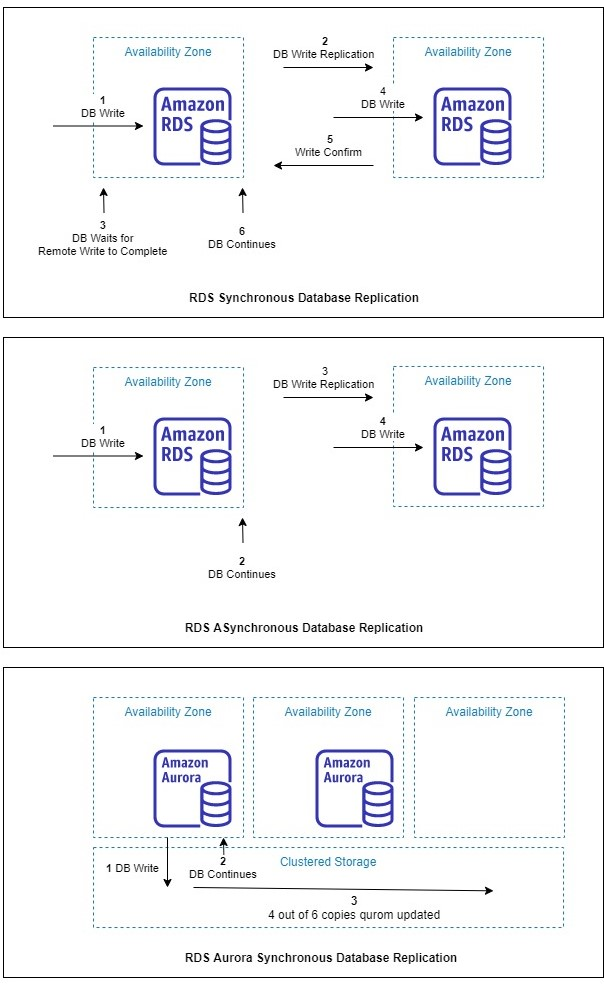
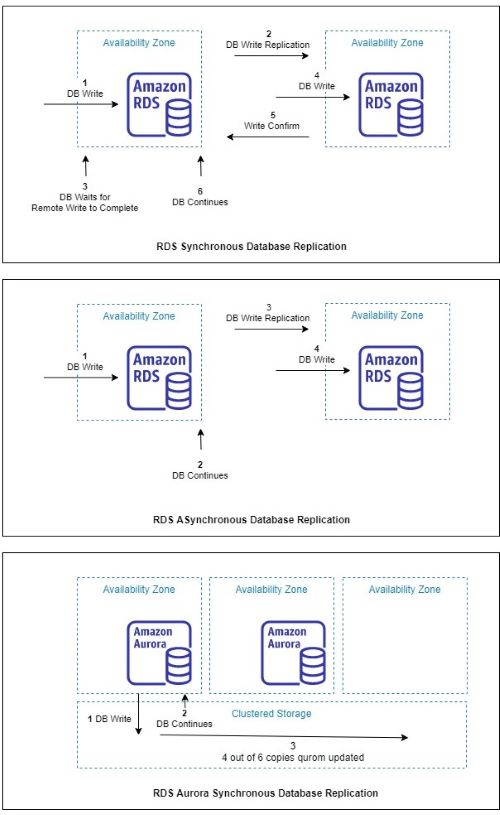
amended images spacing

diff --git a/posts/zero-dataloss-dr-using-rds/index.md b/posts/zero-dataloss-dr-using-rds/index.md
@@ -16,12 +16,12 @@ date: 2023-07-15
 |---|
 
 ## Introduction
-This article will look at how Amazon RDS databases support recovery from failure or disaster. We will cover the internal database mechanisms that facilitate database recovery from an AWS service failure as well as the AWS offerings that facilitate complete RDS database Disaster Recovery. Finally we will bring all of this information together to form an idea of what is possible utilising Amazon RDS to architect for a Zero Data loss solution.
+This article will look at how Amazon RDS databases support recovery from failure or disaster. We will cover the internal database mechanisms that facilitate database recovery from an AWS service failure as well as the AWS offerings that facilitate complete RDS database disaster recovery. Finally we will bring all of this information together to form an idea of what is possible utilising Amazon RDS to architect for a Zero Data loss solution.
 
 ## What does Zero Data Loss Disaster Recovery (ZDLDR) actually mean and why would it be needed?
 Disaster Recovery is the act of recovering an impaired service after a failure event that effects the primary Availability Zone(s), Data Centre(s) or Region(s). That event could range from natural disasters, power cuts, and network outages to political activism stopping or impacting the data centres where servers and services are physically run from.
 
-Recovery from failure and Testing of recovery procedures also forms part of the AWS Well-Architected Framework falling under the 'Reliability' Pillar. This is a core component of any AWS architected design so should be well understood.
+Recovery from failure and Testing of recovery procedures also forms part of the [AWS Well-Architected Framework](https://docs.aws.amazon.com/wellarchitected/latest/reliability-pillar/plan-for-disaster-recovery-dr.html) falling under the 'Reliability' Pillar. This is a core component of any AWS architected design so should be well understood.
 
  > Your resiliency strategy should also include Disaster Recovery (DR) objectives based on strategies to recover your workload in case of a disaster event.
 
@@ -29,7 +29,7 @@ Recovery from failure and Testing of recovery procedures also forms part of the 
 
  Recovery from a Disaster, with Zero Data Loss or ZDLDR means that once the database is back in service it will carry on from the point of failure and hold all transactional history up until the point of failure. For instance if we lost an Availability Zone at 9:00am UTC, For a ZDLDR Solution we would want a DR Solution that could reinstate that database service as if it were 09:00am UTC again anything less could imply loss of new or changed data.
 
- A database with missing or out of date data may simply cause an application to cease to function as it should, report incorrect or missing data and could require complex manual intervention to rectify. The issue could further be impacted if the system continued to operate with the missing or incorrect data which then causes additional logical cascading data corruptions. 
+ A database with missing or out of date data may cause an application to cease to function as it should, report incorrect or missing data and could require complex manual intervention to rectify. The issue could further be impacted if the system continued to operate with the missing or incorrect data which then causes additional logical cascading data corruptions. 
 
  ## Cloud Enabled vs Cloud Native Databases
 One of the key reasons to use a relational database service such as Amazon RDS is to ensure data is highly available and recoverable at all times. This is all provided by a managed service (PaaS) that facilitates the simple setup, configuration and administration of this called Amazon RDS.
@@ -37,19 +37,20 @@ One of the key reasons to use a relational database service such as Amazon RDS i
 Amazon RDS supports 5 different database engines as below:
 ![Cloud Native vs Cloud Enabled](images/pic1_enabled_vs_native.jpg "Figure 1. Cloud Native vs Cloud Enabled")
 
-These Amazon RDS Databases engines running generally fall into 2 categories
+These Amazon RDS Databases engines generally fall into 2 categories
 - Cloud Enabled
 -	Cloud Native
 
 Cloud Enabled Databases run using similar infrastructure and setup as if they were running on premise. In a way they are databases designed for an on premise environment and tailored to run on the cloud and utilise those great services that AWS provides. Amazon RDS which caters for engines Oracle, SQL Server, Postgres, MySQL and MariaDB can be considered Cloud Enabled offerings.
 
-As depicted below these databases write to a standard non clustered EBS volume. Disaster Recovery can be provided by replication of the SAN or the Database to a second Availability Zone.
+As depicted below these databases write to a standard non clustered EBS volume(s). Disaster Recovery can be provided by replication of the Physical SAN or the logical Database to a second Availability Zone.
+
 ![RDS Multi AZ EBS](images/pic2_az_ebs.jpg "Figure 2. RDS Multi AZ EBS")
 
 
 Cloud Native Database are designed from the ground up to utilise cloud features that are generally only available on the cloud. Amazon Aurora Postgres and Amazon Aurora MySQL (both of which are still part of the RDS family) can be considered cloud native database offerings. Aurora decouples the compute from the storage layer. The storage layer has extra efficiencies, safe guards and utilises multiple AZs to enhance high availability and DR. 
 
-As depicted below Amazon Aurora RDS writes to clustered storage volume that spans across all 3 Availability Zones. The data is striped such that an Aurora database can be stood up for Disaster Recovery at any time in any Availability Zone within the same Region with no further replication or overhead. 
+As depicted below Amazon Aurora RDS writes to a clustered storage volume that spans across all 3 Availability Zones. The data is striped such that an Aurora database can be stood up for Disaster Recovery at any time in any Availability Zone within the same Region with no further replication or overhead. 
 ![RDS Multi AZ Clustered](images/pic2_az_clustered.jpg "Figure 3. RDS Multi AZ Clustered")
 
 ## Amazon RDS database Transaction Logging
@@ -76,9 +77,9 @@ Backups in Amazon RDS are based on EC2 Storage level Snapshots and for Cloud Ena
 
 ![RDS Backup cadence](images/pic7_table_backups.jpg "Figure 7. RDS Backup cadence")
 
-The Cloud Native Amazon Aurora backups are continuous and based on its intelligent storage clustered setup and how data changes are recorded, due to this we should be able to restore an Aurora database with no data loss as there is no transaction log backup needed, the transactions are part of the data persisted to disk across all 3 AZs. 
+The Cloud Native Amazon Aurora backups are continuous and based on its intelligent storage clustered setup and how data changes are recorded, due to this we should be able to restore an Aurora database with no data loss as there is no transaction log backup needed, the transactions are part of the data persisted to disk across all 3 AZs mentione earlier. 
 
-To restore a RDS Cloud Enabled database would need a restore of the full backup + incremental backup(s) + for Cloud Enabled database roll forward transaction logs. Potentially the RPO using Amazon Cloud Enabled RDS backups would be 5 minutes at most (the cadence of transaction log backups). 
+To restore a RDS Cloud Enabled database would need a restore of the full backup + incremental backup(s) + for Cloud Enabled database the roll forward of the transaction logs. Potentially the RPO using Amazon Cloud Enabled RDS backups would be 5 minutes at most (the cadence of transaction log backups). 
 
 To restore a RDS Cloud Native database would need a restore of the full backup + incremental backup(s), there are no transaction logs to restore, we should expect an RPO of 0 i.e. no data loss.
 
@@ -87,22 +88,22 @@ To restore a RDS Cloud Native database would need a restore of the full backup +
 Disaster Recovery in Amazon RDS is based on Multi AZ or Multi Region database copies where we have a physically separate database copy located in a different physical location. This Database copy could be replicated using SAN or Database technologies with the latter protecting against disk corruptions. The replication used between database copies to keep them identical or near identical as possible could use asynchronous or synchronous replication depending on the replication technology used.
 
 ## Logical Replication vs Physical Replication
- 'How' we replicate RDS Database replication for DR is generally considered to be either Synchronous (SYNC) where wait for data to be committed on both the primary RDS database in its AZ and standby RDS database in a different AZ before continuing or Asynchronous(ASYNC) where we  send the data from the primary RDS database in its AZ to the standby RDS database in a different AZ but do not wait for data to be committed or Synchronous Clustered where we allow the decoupled storage to perform replication with no direct waiting once handed to the storage tier to complete.
+ 'How' we replicate RDS Database replication for DR is generally considered to be either Synchronous (SYNC) where we wait for data to be committed on both the primary RDS database in its AZ and standby RDS database in a different AZ before continuing or Asynchronous(ASYNC) where we  send the data from the primary RDS database in its AZ to the standby RDS database in a different AZ but do not wait for data to be committed. Amazon Aurora also provides Synchronous Clustered where we allow the decoupled storage to perform replication with no direct waiting once handed to the storage tier to complete.
 These 3 types of replication are depicted below:
 
 ![Replication Async vs Sync](images/pic9_replication_sync_vs_async.jpg "Figure 9. Replication Async vs Sync")
 
 'What' we replicate could be either:
 
-Using a physical DR copy, where the replication is at the SAN Level tracking disk block changes. This type of replication is always synchronous. Within Amazon RDS this is referred to as Multi AZ replication and only supports Multi AZ not Multi Region. One of the drawbacks of physical replication is that it will replicate disk corruptions. Persisted disk corruptions should be considered a very rare occurrence but never the less they need to be catered for. As a physical replicated DR uses synchronous replication under normal circumstances we can assume an RPO of 0 when not dealing with disk corruptions.
+Using a physical DR copy, where the replication is at the SAN Level tracking disk block changes. This type of replication is always synchronous. Within Amazon RDS this is referred to as Multi AZ replication and only supports Multi AZ not Multi Region. One of the drawbacks of physical replication is that it will replicate disk corruptions. Persisted disk corruptions should be considered a very rare occurrence but never the less they need to be catered for. As a physically replicated DR uses synchronous replication we can assume an RPO of 0 when not dealing with disk corruptions.
 
-Using a logical DR copy, where the replication is at the DB level tracking DB transactional changes. This can be either synchronous where supported or asynchronous replication. One of the key advantages of logical replication is that it supports both cross AZ and cross Region replication. Logical database copies are referred to as Replica copies. These replica's also have the potential to be utilised as read-only copies of the live database where supported. For a logical DR copy disk corruption should not be replicated and this is key point for any ZDLDR solution. If the logical replication is asynchronous it has the potential to drift (Lag) behind the Primary site, but this doesn't necessarily mean data loss if site switches are planned or graceful.
+Using a logical DR copy, where the replication is at the DB level tracking DB transactional changes. This can be either synchronous where supported or asynchronous replication. One of the key advantages of logical replication is that it supports both cross AZ and cross Region replication. Logical database copies are referred to as Replica copies. For a logical DR copy disk corruption should not be replicated and this is key point for any ZDLDR solution. If the logical replication is asynchronous it has the potential to drift (Lag) behind the Primary site, but this doesn't necessarily mean data loss if site switches are planned or graceful.
 
 Using a clustered physical copy, where the replication is handled by the intelligent storage tier mirroring multiple copies of data across all available AZs. This is only supported for Amazon Aurora which uses a clustered decoupled storage layer, here the physical replication must be replicated at least 4 ways across all available AZs to be considered in sync and eventually 6 ways, its uses what's called a 4 of 6 Quorum for writes. Due to the always synchronous clustered storage replication of Aurora we can assume an RPO of 0. We should note that Amazon Aurora clustered replication is only supported within the same region, though cross regions replication is supported asynchronously. Disk corruptions present on Amazon Aurora will selfheal from one of the healthy copies of the data, there will be a minimum of 4 copies and eventually 6 so this is very effective against disk corruption. 
 
-What and How replicate with regard to Amazon RDS can be a Logically Replicated Replica for Amazon RDS or a Physically Replicated Replica if using Amazon Aurora or lastly a Physically Replicated Multi AZ copy for Amazon RDS.
+'What' and 'How' we replicate with regard to Amazon RDS can be a Logically Replicated Replica for Amazon RDS or a Physically Replicated Replica if using Amazon Aurora or lastly a Physically Replicated Multi AZ copy for Amazon RDS.
 
-A replica in Amazon RDS or Amazon Aurora represents a database that also has the potential to be used as an additional Read Only copy of the live database while still being kept in sync with all changes. Using Amazon RDS Oracle there is an extra license fee  to use a Read Only copy known as Active Dataguard, hence with this database engine we can also have the replica in recovery mode only not accessible for Read Only access where that license fee is then not required this is called a mounted replica. Amazon Aurora Replica are based on the decoupled clustered storage that is automatically replicated across all AZs. This allows Amazon Aurora replica's to be stood up with no extra overhead or copying of transactions. Furthermore for Amazon Aurora we don't even need to stand up replica as the potential to create one is still there at any time as the data is clustered across all available AZ to facilitate that.
+A replica in Amazon RDS or Amazon Aurora represents a database that also has the potential to be used as an additional Read Only copy of the live database while still being kept in sync with all changes. Using Amazon RDS Oracle there is an extra license fee  to use a Read Only copy known as Active Dataguard, hence with this database engine we can also have the replica in a recovery mode only not accessible for Read Only access where that license fee is then not required this is called a mounted replica. Amazon Aurora Replica are based on the decoupled clustered storage that is automatically replicated across all AZs. This allows Amazon Aurora replica's to be stood up with no extra overhead or copying of transactions. Furthermore for Amazon Aurora we don't even need to stand up replica as the potential to create one is still there at any time as the data is clustered across all available AZ to facilitate that.
 
 Logical replication runs asynchronously for Cloud Enabled RDS Replica's RDS Oracle, RDS Postgres, RDS MySQL and RDS MariaDB. One exception is RDS SQL Server which utilises a feature called 'Always On' or 'Mirroring' where the replication to the secondary site is a logical synchronous apply under the covers. The other exception is Oracle RDS Custom, using RDS Custom users are able to access the underlying operating system and also make certain customisations that are not possible under normal Amazon RDS Regular. One of the customisations that is possible for Oracle is to setup logical synchronous replication to the replica database.
 
@@ -115,7 +116,8 @@ It worth stating the Database Edition can impact what choices are available, for
 We should also note that logical and physical DR databases are not mutually exclusive. We could have both a logical replica(s) and a multi AZ physical copy for the same source database and in fact this may provide a more complete DR setup.
 
 ## Disaster Blast Radius
-Not all failures require disaster recovery on Amazon RDS. Starting at the lowest level which would be an RDS Oracle Database and the implicit services that support RDS we have:
+Not all failures require disaster recovery on Amazon RDS. For an RDS Database the implicit services that support the database are:
+
 ![RDS Services Table](images/pic11_table_rds_services.jpg "Figure 11. RDS Services Table")
 
 Let's refer to this as Level 1, a failure at Level 1 should not require disaster recovery in general, but may invoke it for a faster recovery if using a multi AZ is setup. There should be zero data loss as each of these services is generally self-healing or highly redundant. 
@@ -126,7 +128,7 @@ In general a Level 1 failure should not result in potential data loss unless the
 
 The next level of failure would be an entire Availability Zone failure, let's call this a failure at Level 2. A Level 2 failure would need a disaster recovery site to continue the operation of the database service. If using a Multi AZ database setup then there should be no data loss for synchronously replicated databases. For asynchronously replicated database there could be some lag and potential data loss. If there is no multi AZ RDS database then it's also possible to use backups to reinstate the database service but these could be upto 5 minutes behind the lost site.
 
-The next level of failure would be loss of an entire Region(s), let's call this a failure at Level 3. A Level 3 failure always has the potential for data loss, as database replication across regions will be asynchronous due to the distances data must travel to be replicated.  Multi region backups will lag even further behind the live Region as well. We could possibly assume an RPO of minutes for cross region DR, though this is dependent as mentioned on speed, distance and database load and activity.
+The next level of failure would be loss of an entire Region(s), let's call this a failure at Level 3. A Level 3 failure always has the potential for data loss, as database replication across regions will be asynchronous due to the distances data must travel to be replicated.  Multi region backups will lag even further behind the live Region as well. We could possibly assume an RPO of minutes for cross region DR, though this is dependent as mentioned on speed, distance and database load activity.
 
 The last level of failure would be an entire AWS outage of all regions let's call this a Level 4 failure. This should be extremely rare but can be mitigated by a hybrid or multi cloud DR strategy. There would also be a higher likelihood of data loss due to such replication being asynchronous. Also for Amazon RDS this would only be supported using a RDS Custom Engines as it would require low level customisations for such DR that only the Custom offering of RDS supports. Though regular RDS could take manual backups and push these to a target environment as well but RPO will be very high for that.
 
